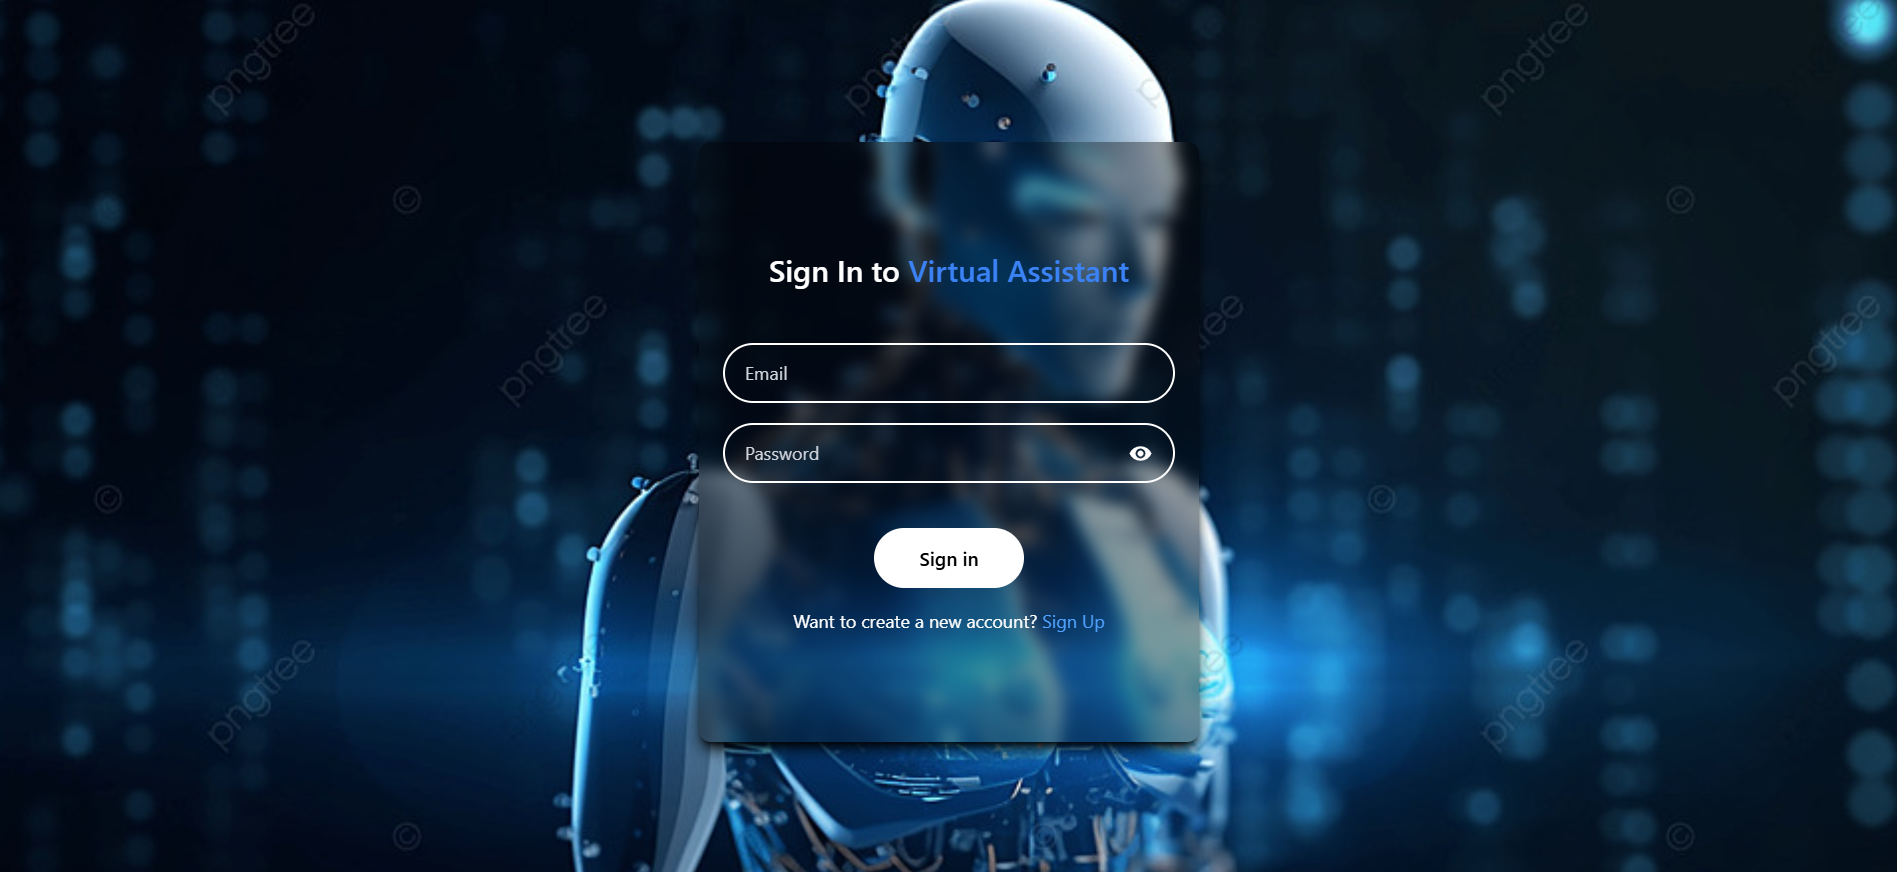
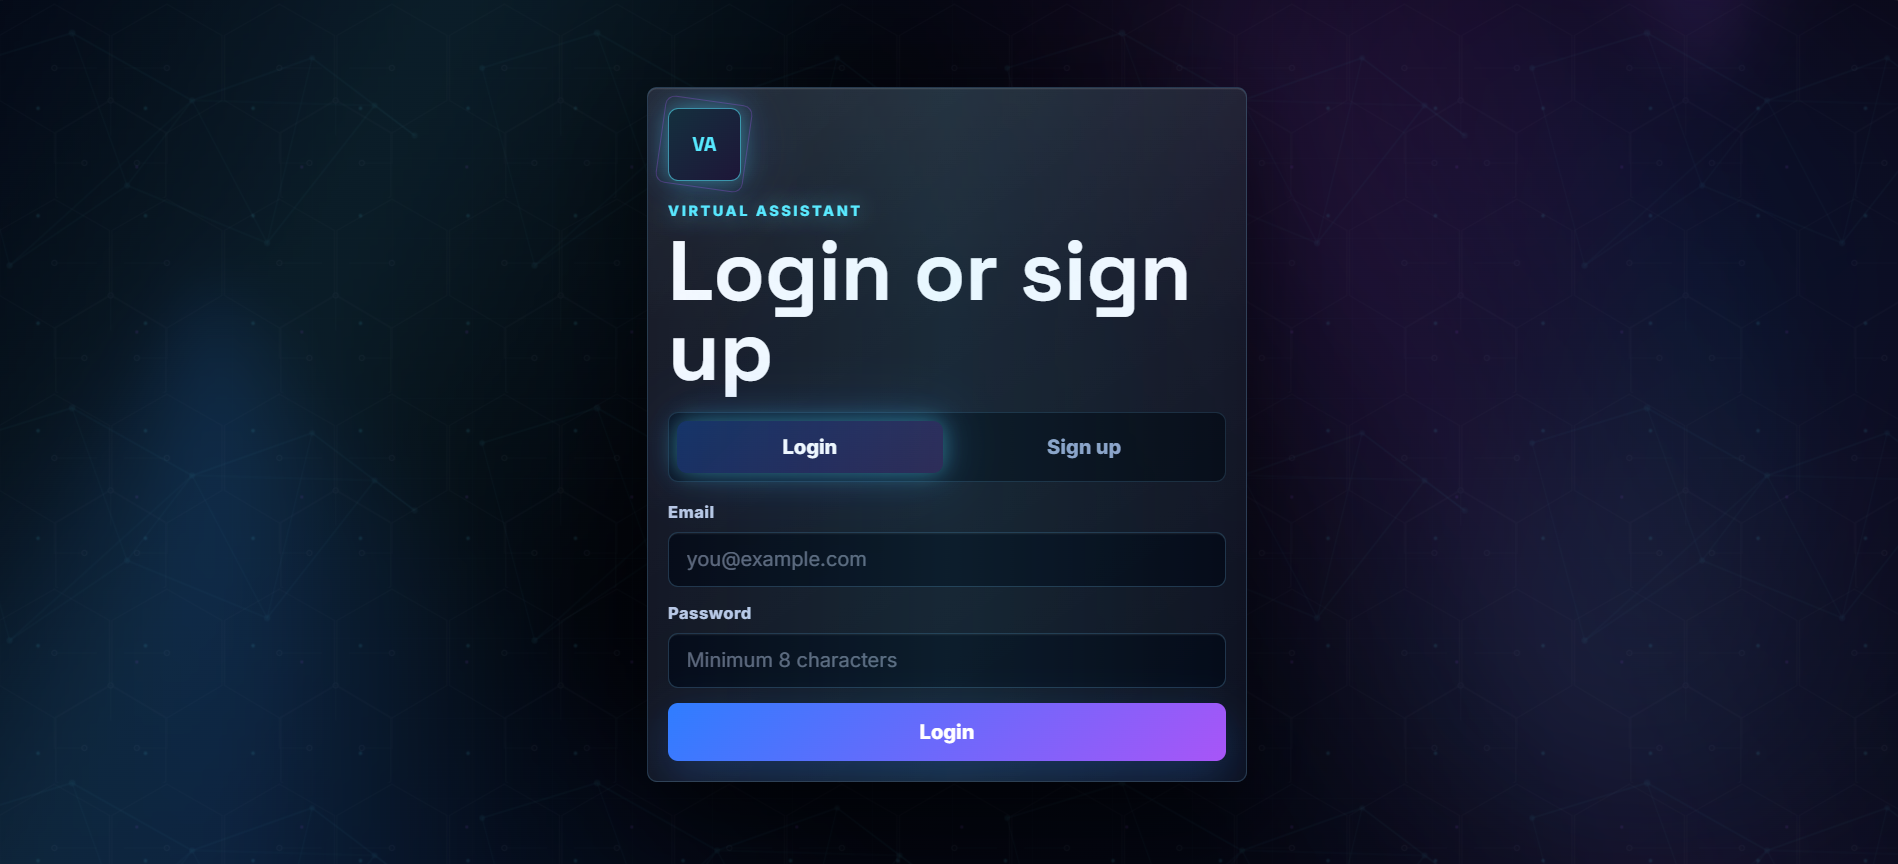
Update portfolio content and projects

diff --git a/portfolio/src/components/ProjectsSection.jsx b/portfolio/src/components/ProjectsSection.jsx
@@ -1,35 +1,28 @@
 import {ExternalLink,Github,ArrowRight} from "lucide-react";
 
 
-const projects=[
-    {
-        id:1,
-        title:"Portfolio",
-        description:"dummy lorem epsum data add it later with your reference",
-        image:"/projects/i1.png",
-        tags: ["React","tailwind"],
-        demoUrl:"",
-        githubUrl:"https://github.com/nimishaagnihotri01/Portfolio"
-    },
-    {
-        id:2,
-        title:"Virtual Assistant in MERN",
-        description:"dummy lorem epsum data add it later with your reference",
-        image:"/projects/i2.png",
-        tags: ["React","mongo","node","tailwind"],
-        demoUrl:"https://nimishaagnihotri01.github.io/virtual-Assistant/",
-        githubUrl:"https://github.com/nimishaagnihotri01/virtual-Assistant"
-    },
-    {
-        id:3,
-        title:"frontend e-commerce website",
-        description:"dummy lorem epsum data add it later with your reference",
-        image:"/projects/i3.png",
-        tags: ["html","css","bootstrap","javascript"],
-        demoUrl:"https://nimishaagnihotri01.github.io/chahat_masale-website/",
-        githubUrl:"https://github.com/nimishaagnihotri01/chahat_masale-website"
-    },
-]
+const projects = [
+  {
+    id: 1,
+    title: "PrepTrack",
+    description:
+      "A placement preparation platform designed to help students organize DSA, aptitude, and interview preparation with structured tracking and progress monitoring.",
+    image: "/projects/i1.png",
+    tags: ["React", "Node.js", "Express", "MongoDB", "Tailwind CSS"],
+    demoUrl: "https://prep-track-six.vercel.app/",
+    githubUrl: "https://github.com/nimishaagnihotri01/prepTrack",
+  },
+  {
+    id: 2,
+    title: "Virtual Assistant in MERN",
+    description:
+      "An AI-powered virtual assistant built using the MERN stack that processes user queries and delivers intelligent responses through an interactive chat interface.",
+    image: "/projects/i2.png",
+    tags: ["React", "MongoDB", "Node.js", "Express", "Tailwind CSS"],
+    demoUrl: "https://virtual-assistant-pi-cyan.vercel.app/",
+    githubUrl: "https://github.com/nimishaagnihotri01/Virtual-Assistant",
+  },
+];
 
 export const ProjectsSection=()=>{
 

diff --git a/portfolio/src/components/AboutSection.jsx b/portfolio/src/components/AboutSection.jsx
@@ -14,13 +14,13 @@ export const AboutSection =()=>{
                 </h3>
                 <p className="text-muted-foreground"> I thrive at the intersection of design and technology, crafting solutions that are both innovative and user-centric. Whether it’s coding functional applications or designing seamless interfaces, I enjoy turning ideas into interactive realities that make an impact.</p>
 
-                <p className="text-muted-foreground">Pursuing: B.Tech in Computer Engineering from Marwadi University (Current CGPA: 9.29) <br/><br/>12th Grade: KK Mandal Vidyalaya, Bihar (BSEB Board) Scored 79.2%.</p>
+                <p className="text-muted-foreground">Pursuing: B.Tech in Computer Engineering from Marwadi University (Current CGPA: 8.91) <br/><br/>12th Grade: KK Mandal Vidyalaya, Bihar (BSEB Board) Scored 79.2%.</p>
                 <div className="flex flex-col sm:flex-row gap-4 pt-4 justify-center">
                     <a href="#contact" className="cosmic-button">
                         {" "}
                         Get In Touch
                     </a>
-                    <a href="https://drive.google.com/file/d/1iIA7YiEsoAjE7cbj_qv7a-WJQc00GP5P/view?usp=drivesdk"  target="_blank" className="px-6 py-2 rounded-full border border-primary text-primary hover:bg-primary/10 transition-color duration-300">
+                    <a href="https://drive.google.com/file/d/1w9ajciJR284nPF5dNi3kMhFQl61VPk7-/view?usp=sharing"  target="_blank" className="px-6 py-2 rounded-full border border-primary text-primary hover:bg-primary/10 transition-color duration-300">
                         Download Resume
                     </a>
                 </div>
@@ -44,7 +44,7 @@ export const AboutSection =()=>{
                         </div>
                         <div className="text-left">
                             <h4 className="font-semibold text-lg">Programming</h4>
-                            <p className="text-muted-foreground">I have a strong foundation in C, C++, JavaScript, and TypeScript, with experience in problem-solving that enhances my logical thinking and development skills.</p>
+                            <p className="text-muted-foreground">I have a strong foundation in C, Java, JavaScript with experience in problem-solving that enhances my logical thinking and development skills.</p>
                         </div>
                     </div>
                 </div>
@@ -55,7 +55,7 @@ export const AboutSection =()=>{
                         </div>
                         <div className="text-left">
                             <h4 className="font-semibold text-lg">Tools used</h4>
-                            <p className="text-muted-foreground">I use Git, VS Code, Canvas, WordPress to support my development and design work.</p>
+                            <p className="text-muted-foreground">I use Git, VS Code, Canvas, WordPress, figma to support my development and design work.</p>
                         </div>
                     </div>
                 </div>

diff --git a/portfolio/src/components/HeroSection.jsx b/portfolio/src/components/HeroSection.jsx
@@ -10,7 +10,8 @@ export const HeroSection=()=>{
                     <span className="text-gradient ml-2 opacity-0 animate-fade-in-delay-2">{" "}Agnihotri</span>
                 </h1>
                 <p className="text-lg md:text-xl text-muted-foreground max-2-2xl mx-auto opacity-0 animate-fade-in-delay-3">
-A computer engineering student with a strong foundation in programming and development. Skilled in C, C++, JavaScript, and TypeScript, with hands-on experience in building websites using the MERN stack.                </p>
+Computer Engineering student with expertise in Java, JavaScript, Devops , and MERN stack development. Strong foundation in data structures, algorithms, and building full-stack web applications.
+                </p>
                 <div className="pt-4 opacity-0 animate-fade-in-delay-4">
                     <a href="#projects" className="cosmic-button">
                         View My Work